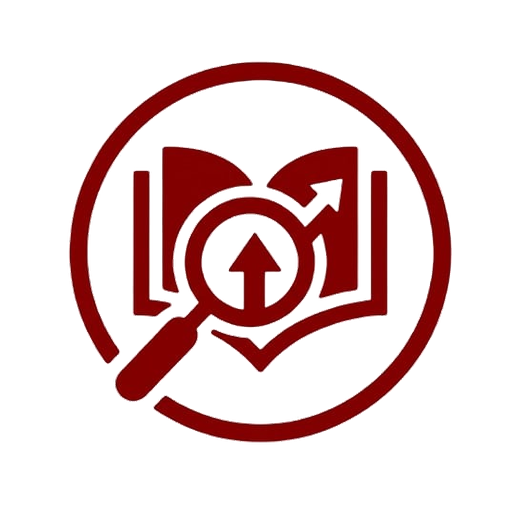
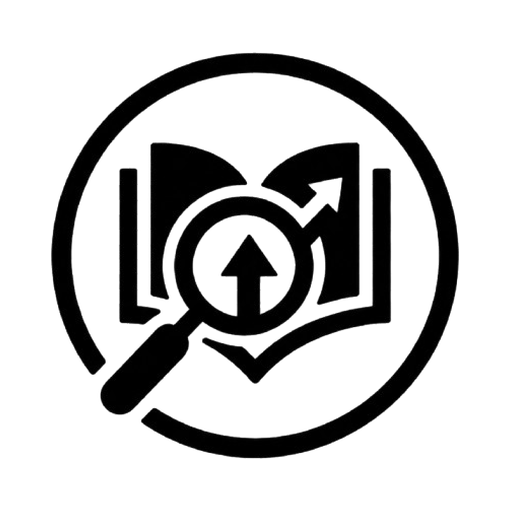
sada

diff --git a/functions/index.js b/functions/index.js
@@ -164,7 +164,7 @@ exports.sendApprovalEmail = onDocumentUpdated(
         ? `
         <table role="presentation" cellpadding="0" cellspacing="0" style="margin: 20px 0;">
           <tr>
-            <td style="background:#8B0000; border-radius:24px;">
+            <td style="background:#111111; border-radius:24px;">
               <a href="${verifyUrl}" style="display:inline-block; padding:13px 32px; font-family:Arial, Helvetica, sans-serif; font-size:15px; font-weight:bold; color:#ffffff; text-decoration:none; border-radius:24px;">
                 Activate
               </a>
@@ -335,14 +335,16 @@ exports.sendApplicationStatusEmail = onDocumentUpdated(
     // Same colors CompanyApplicantsScreen.jsx uses for the status badge in
     // the app, so the email visually matches what the student would see
     // after logging in — see STATUS_COLORS there.
+    // Greyscale, to match the app's black-and-white theme. The status word
+    // itself carries the meaning, so no colour coding is needed.
     const STATUS_BADGE_COLOR = {
-      "Accepted":     "#4CAF50",
-      "Declined":     "#8B0000",
-      "Pending":      "#C8B800",
-      "In Review":    "#1A3A8B",
-      "To Interview": "#6B21A8",
+      "Accepted":     "#111111",
+      "Declined":     "#111111",
+      "Pending":      "#6B6B6B",
+      "In Review":    "#3D3D3D",
+      "To Interview": "#3D3D3D",
     };
-    const badgeColor = STATUS_BADGE_COLOR[newStatus] || "#8B0000";
+    const badgeColor = STATUS_BADGE_COLOR[newStatus] || "#111111";
 
     // Status-specific message — phrasing follows the existing
     // STATUS_NOTIF_TEXT used for the in-app notification (same file), just
@@ -381,8 +383,17 @@ exports.sendApplicationStatusEmail = onDocumentUpdated(
 
                 <!-- Header -->
                 <tr>
-                  <td style="background:linear-gradient(180deg, #A32424 0%, #590101 100%); background-color:#590101; padding:28px 24px; text-align:center;">
-                    <img src="${logoUrl}" alt="OJTern" width="56" height="56" style="display:block; margin:0 auto 8px; border-radius:12px;" />
+                  <td style="background:#111111; padding:28px 24px; text-align:center;">
+                    <!-- The logo sits on a white tile: it's a dark mark, so on the
+                         black header (and in Gmail's dark mode) it would otherwise
+                         disappear into the background. -->
+                    <table role="presentation" cellpadding="0" cellspacing="0" align="center" style="margin:0 auto 10px;">
+                      <tr>
+                        <td style="background:#ffffff; border-radius:14px; padding:8px; line-height:0;">
+                          <img src="${logoUrl}" alt="OJTern" width="48" height="48" style="display:block; border-radius:10px;" />
+                        </td>
+                      </tr>
+                    </table>
                     <span style="font-family:Arial, Helvetica, sans-serif; font-size:22px; font-weight:bold; color:#ffffff; letter-spacing:0.03em;">OJTern</span>
                   </td>
                 </tr>
@@ -414,7 +425,7 @@ exports.sendApplicationStatusEmail = onDocumentUpdated(
                     <!-- CTA -->
                     <table role="presentation" cellpadding="0" cellspacing="0" style="margin:0 0 28px;">
                       <tr>
-                        <td style="background:#8B0000; border-radius:24px;">
+                        <td style="background:#111111; border-radius:24px;">
                           <a href="${loginUrl}" style="display:inline-block; padding:13px 30px; font-size:15px; font-weight:bold; color:#ffffff; text-decoration:none;">
                             View My Application
                           </a>
@@ -566,8 +577,17 @@ exports.sendApplicationSubmittedEmail = onDocumentCreated(
 
                 <!-- Header -->
                 <tr>
-                  <td style="background:linear-gradient(180deg, #A32424 0%, #590101 100%); background-color:#590101; padding:28px 24px; text-align:center;">
-                    <img src="${logoUrl}" alt="OJTern" width="56" height="56" style="display:block; margin:0 auto 8px; border-radius:12px;" />
+                  <td style="background:#111111; padding:28px 24px; text-align:center;">
+                    <!-- The logo sits on a white tile: it's a dark mark, so on the
+                         black header (and in Gmail's dark mode) it would otherwise
+                         disappear into the background. -->
+                    <table role="presentation" cellpadding="0" cellspacing="0" align="center" style="margin:0 auto 10px;">
+                      <tr>
+                        <td style="background:#ffffff; border-radius:14px; padding:8px; line-height:0;">
+                          <img src="${logoUrl}" alt="OJTern" width="48" height="48" style="display:block; border-radius:10px;" />
+                        </td>
+                      </tr>
+                    </table>
                     <span style="font-family:Arial, Helvetica, sans-serif; font-size:22px; font-weight:bold; color:#ffffff; letter-spacing:0.03em;">OJTern</span>
                   </td>
                 </tr>
@@ -587,7 +607,7 @@ exports.sendApplicationSubmittedEmail = onDocumentCreated(
                     <!-- Status badge -->
                     <table role="presentation" cellpadding="0" cellspacing="0" style="margin:0 0 20px;">
                       <tr>
-                        <td style="background:#C8B800; border-radius:20px; padding:8px 20px;">
+                        <td style="background:#6B6B6B; border-radius:20px; padding:8px 20px;">
                           <span style="font-size:13px; font-weight:bold; color:#ffffff; letter-spacing:0.04em; text-transform:uppercase;">Pending</span>
                         </td>
                       </tr>
@@ -600,7 +620,7 @@ exports.sendApplicationSubmittedEmail = onDocumentCreated(
                     <!-- CTA -->
                     <table role="presentation" cellpadding="0" cellspacing="0" style="margin:0 0 28px;">
                       <tr>
-                        <td style="background:#8B0000; border-radius:24px;">
+                        <td style="background:#111111; border-radius:24px;">
                           <a href="${loginUrl}" style="display:inline-block; padding:13px 30px; font-size:15px; font-weight:bold; color:#ffffff; text-decoration:none;">
                             View My Application
                           </a>
@@ -757,7 +777,7 @@ exports.sendCoordinatorInviteEmail = onDocumentCreated(
       <p>${copy.body(invite)}</p>
       <p>Click below to accept the invitation and set up your own account:</p>
       <p>
-        <a href="${acceptUrl}" style="display:inline-block;padding:12px 24px;background:#8B0000;color:#ffffff;text-decoration:none;border-radius:6px;">
+        <a href="${acceptUrl}" style="display:inline-block;padding:12px 24px;background:#111111;color:#ffffff;text-decoration:none;border-radius:24px;">
           Accept Invitation
         </a>
       </p>
@@ -885,7 +905,7 @@ exports.resendCompanyActivation = onCall(
         <p>Here's a fresh activation link for your company account. This one replaces any earlier link, which may have expired or already been used.</p>
         <table role="presentation" cellpadding="0" cellspacing="0" style="margin: 20px 0;">
           <tr>
-            <td style="background:#8B0000; border-radius:24px;">
+            <td style="background:#111111; border-radius:24px;">
               <a href="${verifyUrl}" style="display:inline-block; padding:13px 32px; font-family:Arial, Helvetica, sans-serif; font-size:15px; font-weight:bold; color:#ffffff; text-decoration:none; border-radius:24px;">
                 Activate
               </a>
@@ -1026,7 +1046,7 @@ exports.requestStudentPasswordReset = onCall(
         <p>We received a request to reset the password for your OJTern student account${student.studentId ? ` (Student ID <strong>${student.studentId}</strong>)` : ""}.</p>
         <table role="presentation" cellpadding="0" cellspacing="0" style="margin: 20px 0;">
           <tr>
-            <td style="background:#8B0000; border-radius:24px;">
+            <td style="background:#111111; border-radius:24px;">
               <a href="${resetUrl}" style="display:inline-block; padding:13px 32px; font-family:Arial, Helvetica, sans-serif; font-size:15px; font-weight:bold; color:#ffffff; text-decoration:none; border-radius:24px;">
                 Reset Password
               </a>

diff --git a/public/index.html b/public/index.html
@@ -64,8 +64,16 @@
     <!-- Theme -->
     <meta name="theme-color" content="#1e293b" />
 
-    <!-- Favicon -->
-    <link rel="icon" href="%PUBLIC_URL%/favicon.ico" />
+    <!-- Favicon
+         The .ico covers the address bar and tab (16/32/48px inside one file).
+         The PNGs are what fix the blurry icon in Chrome's site dropdown,
+         bookmarks and new-tab tiles: without them Chrome has only the small
+         .ico to work with and stretches it. The apple-touch-icon is used when
+         the site is saved to an iPhone/iPad home screen. -->
+    <link rel="icon" href="%PUBLIC_URL%/favicon.ico" sizes="any" />
+    <link rel="icon" type="image/png" sizes="192x192" href="%PUBLIC_URL%/ojtern_192.png" />
+    <link rel="icon" type="image/png" sizes="512x512" href="%PUBLIC_URL%/ojtern_512.png" />
+    <link rel="apple-touch-icon" sizes="180x180" href="%PUBLIC_URL%/apple-touch-icon.png" />
 
     <!-- Manifest -->
     <link rel="manifest" href="%PUBLIC_URL%/manifest.json" />

diff --git a/src/Screens/CoordinatorReportCompanyScreen.jsx b/src/Screens/CoordinatorReportCompanyScreen.jsx
@@ -1231,10 +1231,6 @@ const ResolveActionModal = ({
               border: `1.5px solid ${line}`, padding: "10px 12px",
               fontFamily: font.ui, fontSize: "0.82rem", color: ink,
               resize: "vertical", outline: "none", background: color.white,
-              // border-box: without it, width 100% + padding + border made the
-              // textarea ~27px wider than its box, so the help tour's highlight
-              // (sized to #rc-resolve-notes) cut it off on the right. display:
-              // block removes the inline-element gap under it.
               boxSizing: "border-box", display: "block",
             }}
           />
